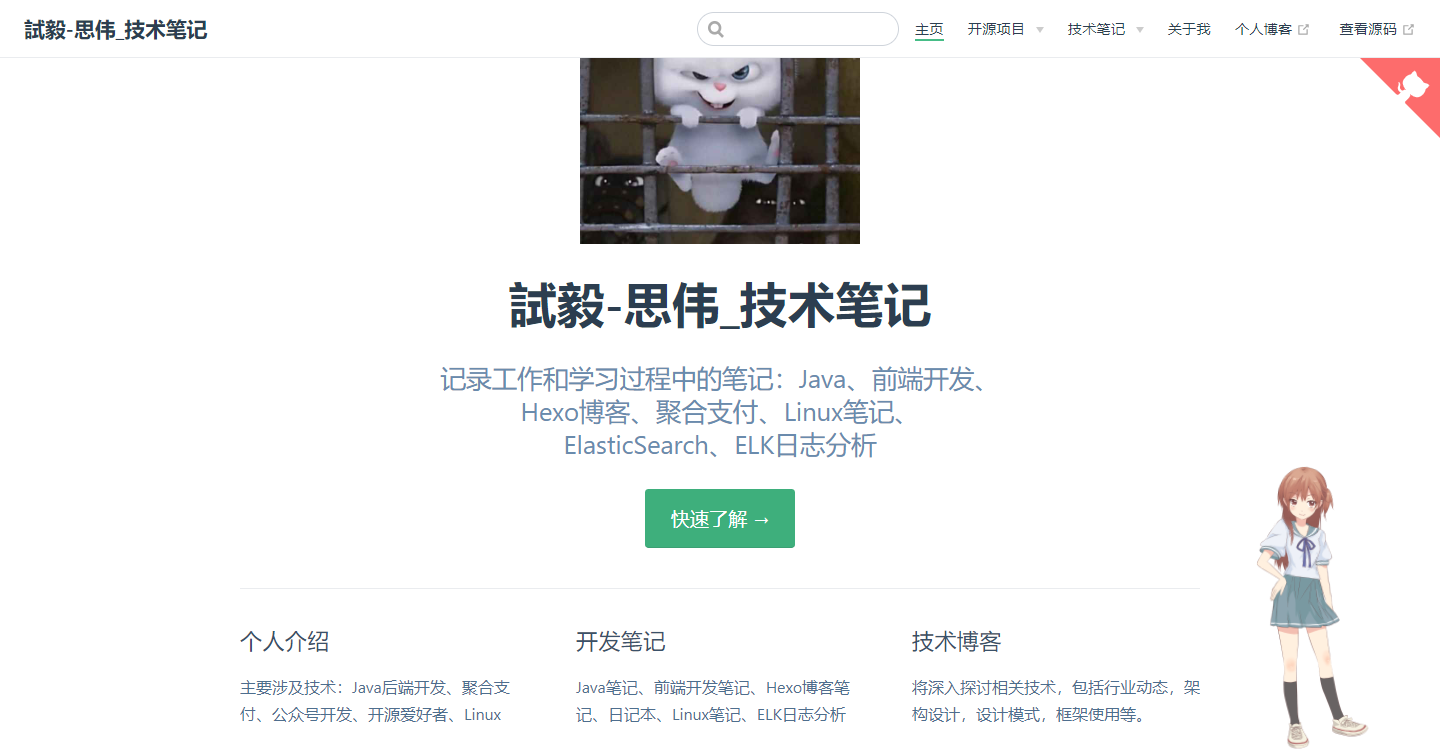
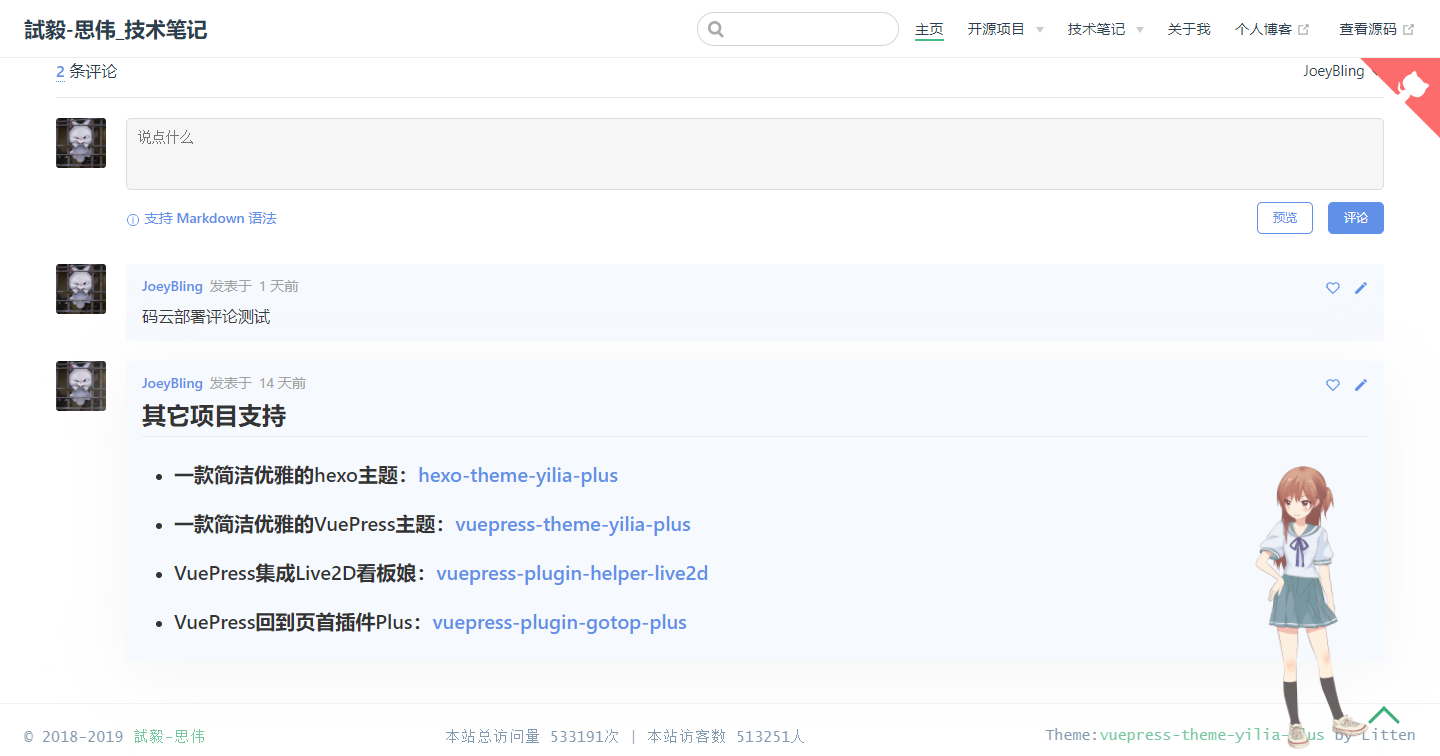
修改README、更新截图

diff --git a/dev/.vuepress/config.js b/dev/.vuepress/config.js
@@ -16,7 +16,7 @@ module.exports = {
           clientID: '071b084546d9f5bd6306',
           // GitHub Application Client Secret.
           clientSecret: 'a19c22f6b78dd87a731a192afca81cf63e57c5d5',
-          // GitHub repository.
+          // GitHub repository. 存储评论的 repo
           repo: 'ibooks',
           // GitHub repository 所有者，可以是个人或者组织。
           owner: 'JoeyBling',

diff --git a/README.md b/README.md
@@ -1,24 +1,23 @@
 # vuepress-plugin-mygitalk
 
 ```
-.___  ___. ____    ____  _______  __  .___________.    ___       __       __  ___ 
-|   \/   | \   \  /   / /  _____||  | |           |   /   \     |  |     |  |/  / 
-|  \  /  |  \   \/   / |  |  __  |  | `---|  |----`  /  ^  \    |  |     |  '  /  
-|  |\/|  |   \_    _/  |  | |_ | |  |     |  |      /  /_\  \   |  |     |    <   
-|  |  |  |     |  |    |  |__| | |  |     |  |     /  _____  \  |  `----.|  .  \  
-|__|  |__|     |__|     \______| |__|     |__|    /__/     \__\ |_______||__|\__\ 
-                                                                                  
+.___  ___. ____    ____  _______  __  .___________.    ___       __       __  ___
+|   \/   | \   \  /   / /  _____||  | |           |   /   \     |  |     |  |/  /
+|  \  /  |  \   \/   / |  |  __  |  | `---|  |----`  /  ^  \    |  |     |  '  /
+|  |\/|  |   \_    _/  |  | |_ | |  |     |  |      /  /_\  \   |  |     |    <
+|  |  |  |     |  |    |  |__| | |  |     |  |     /  _____  \  |  `----.|  .  \
+|__|  |__|     |__|     \______| |__|     |__|    /__/     \__\ |_______||__|\__\
 ```
 
-[![](https://nodei.co/npm/vuepress-plugin-gotop-plus.png?downloads=true&downloadRank=true&stars=true)](https://www.npmjs.com/package/vuepress-plugin-gotop-plus)
+[![](https://nodei.co/npm/vuepress-plugin-mygitalk.png?downloads=true&downloadRank=true&stars=true)](https://www.npmjs.com/package/vuepress-plugin-mygitalk)
 
-[![npm package](https://img.shields.io/npm/v/vuepress-plugin-gotop-plus.svg?label=vuepress-plugin-gotop-plus)](https://www.npmjs.com/package/vuepress-plugin-gotop-plus)
-[![downloads-total](https://img.shields.io/npm/dt/vuepress-plugin-gotop-plus.svg)](https://www.npmjs.com/package/vuepress-plugin-gotop-plus)
-[![downloads-month](https://img.shields.io/npm/dm/vuepress-plugin-gotop-plus.svg)](https://www.npmjs.com/package/vuepress-plugin-gotop-plus)
-![star](https://img.shields.io/github/stars/JoeyBling/vuepress-plugin-gotop-plus "star")
-![fork](https://img.shields.io/github/forks/JoeyBling/vuepress-plugin-gotop-plus "fork")
-![GitHub Last Commit](https://img.shields.io/github/last-commit/JoeyBling/vuepress-plugin-gotop-plus.svg?label=commits "GitHub Last Commit")
-![issues](https://img.shields.io/github/issues/JoeyBling/vuepress-plugin-gotop-plus "issues")
+[![npm package](https://img.shields.io/npm/v/vuepress-plugin-mygitalk.svg?label=vuepress-plugin-mygitalk)](https://www.npmjs.com/package/vuepress-plugin-mygitalk)
+[![downloads-total](https://img.shields.io/npm/dt/vuepress-plugin-mygitalk.svg)](https://www.npmjs.com/package/vuepress-plugin-mygitalk)
+[![downloads-month](https://img.shields.io/npm/dm/vuepress-plugin-mygitalk.svg)](https://www.npmjs.com/package/vuepress-plugin-mygitalk)
+![star](https://img.shields.io/github/stars/JoeyBling/vuepress-plugin-mygitalk "star")
+![fork](https://img.shields.io/github/forks/JoeyBling/vuepress-plugin-mygitalk "fork")
+![GitHub Last Commit](https://img.shields.io/github/last-commit/JoeyBling/vuepress-plugin-mygitalk.svg?label=commits "GitHub Last Commit")
+![issues](https://img.shields.io/github/issues/JoeyBling/vuepress-plugin-mygitalk "issues")
 [![Author](https://img.shields.io/badge/Author-JoeyBling-red.svg "Author")](https://zhousiwei.gitee.io "Author")
 [![VuePress Version](https://img.shields.io/badge/VuePress-%3E%3D%201.0.0-blue.svg)](https://v1.vuepress.vuejs.org/zh/)
 [![vuepress-theme-yilia-plus](https://img.shields.io/badge/Theme-Yilia_Plus-red.svg "vuepress-theme-yilia-plus")](https://github.com/JoeyBling/vuepress-theme-yilia-plus)
@@ -26,15 +25,15 @@
 
 ------------------
 
-> **欢迎使用和Star支持，如使用过程中碰到问题，可以提出Issue，我会尽力完善**
+> **欢迎使用和Star支持，如使用过程中碰到问题，可以提出[Issue](https://github.com/JoeyBling/vuepress-plugin-mygitalk/issues)，我会尽力完善**
 
 ## 介绍
-&#160;&#160;&#160;&#160;**VuePress回到页首插件Plus. back-to-top plus plugin for VuePress.**
-
-> 此插件根据官方插件[@vuepress/plugin-back-to-top](https://v1.vuepress.vuejs.org/zh/plugin/official/plugin-back-to-top.html)更改调整，加入了一些自定义参数配置.
+&#160;&#160;&#160;&#160;**VuePress集成[Gitalk](https://github.com/gitalk/gitalk). | [Gitalk](https://github.com/gitalk/gitalk) plugin for VuePress.**
 
 - 功能还很少，欢迎各位给我提意见和建议~
-- [vuepress-plugin-gotop-plus](https://github.com/JoeyBling/vuepress-plugin-gotop-plus) 是为 [VuePress](https://v1.vuepress.vuejs.org/zh/) `1.0.0+`制作的插件。
+- [vuepress-plugin-mygitalk](https://github.com/JoeyBling/vuepress-plugin-mygitalk) 是为 [VuePress](https://v1.vuepress.vuejs.org/zh/) `1.0.0+`制作的插件。
+- [Gitalk文档](https://github.com/gitalk/gitalk/blob/master/readme-cn.md#%E8%AE%BE%E7%BD%AE)
+- 关于申请并配置第三方应用请查看 ➡ [https://www.jianshu.com/p/ac7658cc912f](https://www.jianshu.com/p/ac7658cc912f)
 
 ## 线上预览
 
@@ -50,9 +49,9 @@
 ## 安装
 
 ```bash
-yarn add vuepress-plugin-gotop-plus
+yarn add vuepress-plugin-mygitalk
 # or
-npm install vuepress-plugin-gotop-plus --save
+npm install vuepress-plugin-mygitalk --save
 ```
 
 ------------
@@ -61,17 +60,15 @@ npm install vuepress-plugin-gotop-plus --save
 
 ### 引入该插件
 
-在配置文件中引入 `vuepress-plugin-gotop-plus`
+在配置文件中引入 `vuepress-plugin-mygitalk`
 
 > 查看 [官方文档](https://v1.vuepress.vuejs.org/zh/plugin/using-a-plugin.html)。
 
 ```javascript
 module.exports = {
   plugins: [
-    /* 两个插件只能选一个 */
-    ['@vuepress/plugin-back-to-top', false],
     [
-      'vuepress-plugin-gotop-plus'
+      'vuepress-plugin-mygitalk'
     ],
   ],
 }
@@ -82,14 +79,25 @@ module.exports = {
 ```javascript
 module.exports = {
   plugins: [
-    /* 两个插件只能选一个 */
-    ['@vuepress/plugin-back-to-top', false],
     [
-      'vuepress-plugin-gotop-plus', {
-        // 是否在移动设备上显示(default: true)
-        mobileShow: false,
-        // 回到页首元素显示触发的高度阈值(default: 50)
-        threshold: 50
+      'vuepress-plugin-mygitalk', {
+        // 是否启用(关闭请设置为false)(default: true)
+        enable: true,
+        // 是否开启首页评论(default: true)
+        home: true,
+        // Gitalk配置
+        gitalk: {
+          // GitHub Application Client ID.
+          clientID: '',
+          // GitHub Application Client Secret.
+          clientSecret: '',
+          // GitHub repository. 存储评论的 repo
+          repo: 'ibooks',
+          // GitHub repository 所有者，可以是个人或者组织。
+          owner: 'JoeyBling',
+          // 设置语言(default: zh-CN)
+          language: 'zh-CN',
+        }
       }
     ],
   ],
@@ -101,6 +109,8 @@ module.exports = {
 - ### 一款简洁优雅的hexo主题：[hexo-theme-yilia-plus](https://github.com/JoeyBling/hexo-theme-yilia-plus)
 - ### 一款简洁优雅的VuePress主题：[vuepress-theme-yilia-plus](https://github.com/JoeyBling/vuepress-theme-yilia-plus)
 - ### VuePress集成Live2D看板娘：[vuepress-plugin-helper-live2d](https://github.com/JoeyBling/vuepress-plugin-helper-live2d)
+- ### VuePress集成Gitalk：[vuepress-plugin-mygitalk](https://github.com/JoeyBling/vuepress-plugin-mygitalk)
+- ### VuePress回到页首插件Plus：[vuepress-plugin-gotop-plus](https://github.com/JoeyBling/vuepress-plugin-gotop-plus)
 
 ## 捐赠
 &#160;&#160;&#160;&#160;**如果感觉对您有帮助，请作者喝杯咖啡吧，请注明您的名字或者昵称，方便作者感谢o(*￣︶￣*)o**
@@ -122,4 +132,4 @@ module.exports = {
 
 ## LICENSE
 
-[![LICENSE](https://img.shields.io/github/license/JoeyBling/vuepress-plugin-gotop-plus "LICENSE")](./LICENSE "LICENSE")
+[![LICENSE](https://img.shields.io/github/license/JoeyBling/vuepress-plugin-mygitalk "LICENSE")](./LICENSE "LICENSE")

diff --git a/dev/README.md b/dev/README.md
@@ -1,23 +1,23 @@
-# vuepress-plugin-gotop-plus
+# vuepress-plugin-mygitalk
 
 ```
-               _                                _
-  __ _   ___  | |_   ___   _ __          _ __  | | _   _  ___
- / _` | / _ \ | __| / _ \ | '_ \  _____ | '_ \ | || | | |/ __|
-| (_| || (_) || |_ | (_) || |_) ||_____|| |_) || || |_| |\__ \
- \__, | \___/  \__| \___/ | .__/        | .__/ |_| \__,_||___/
- |___/                    |_|           |_|
+.___  ___. ____    ____  _______  __  .___________.    ___       __       __  ___
+|   \/   | \   \  /   / /  _____||  | |           |   /   \     |  |     |  |/  /
+|  \  /  |  \   \/   / |  |  __  |  | `---|  |----`  /  ^  \    |  |     |  '  /
+|  |\/|  |   \_    _/  |  | |_ | |  |     |  |      /  /_\  \   |  |     |    <
+|  |  |  |     |  |    |  |__| | |  |     |  |     /  _____  \  |  `----.|  .  \
+|__|  |__|     |__|     \______| |__|     |__|    /__/     \__\ |_______||__|\__\
 ```
 
-[![](https://nodei.co/npm/vuepress-plugin-gotop-plus.png?downloads=true&downloadRank=true&stars=true)](https://www.npmjs.com/package/vuepress-plugin-gotop-plus)
+[![](https://nodei.co/npm/vuepress-plugin-mygitalk.png?downloads=true&downloadRank=true&stars=true)](https://www.npmjs.com/package/vuepress-plugin-mygitalk)
 
-[![npm package](https://img.shields.io/npm/v/vuepress-plugin-gotop-plus.svg?label=vuepress-plugin-gotop-plus)](https://www.npmjs.com/package/vuepress-plugin-gotop-plus)
-[![downloads-total](https://img.shields.io/npm/dt/vuepress-plugin-gotop-plus.svg)](https://www.npmjs.com/package/vuepress-plugin-gotop-plus)
-[![downloads-month](https://img.shields.io/npm/dm/vuepress-plugin-gotop-plus.svg)](https://www.npmjs.com/package/vuepress-plugin-gotop-plus)
-![star](https://img.shields.io/github/stars/JoeyBling/vuepress-plugin-gotop-plus "star")
-![fork](https://img.shields.io/github/forks/JoeyBling/vuepress-plugin-gotop-plus "fork")
-![GitHub Last Commit](https://img.shields.io/github/last-commit/JoeyBling/vuepress-plugin-gotop-plus.svg?label=commits "GitHub Last Commit")
-![issues](https://img.shields.io/github/issues/JoeyBling/vuepress-plugin-gotop-plus "issues")
+[![npm package](https://img.shields.io/npm/v/vuepress-plugin-mygitalk.svg?label=vuepress-plugin-mygitalk)](https://www.npmjs.com/package/vuepress-plugin-mygitalk)
+[![downloads-total](https://img.shields.io/npm/dt/vuepress-plugin-mygitalk.svg)](https://www.npmjs.com/package/vuepress-plugin-mygitalk)
+[![downloads-month](https://img.shields.io/npm/dm/vuepress-plugin-mygitalk.svg)](https://www.npmjs.com/package/vuepress-plugin-mygitalk)
+![star](https://img.shields.io/github/stars/JoeyBling/vuepress-plugin-mygitalk "star")
+![fork](https://img.shields.io/github/forks/JoeyBling/vuepress-plugin-mygitalk "fork")
+![GitHub Last Commit](https://img.shields.io/github/last-commit/JoeyBling/vuepress-plugin-mygitalk.svg?label=commits "GitHub Last Commit")
+![issues](https://img.shields.io/github/issues/JoeyBling/vuepress-plugin-mygitalk "issues")
 [![Author](https://img.shields.io/badge/Author-JoeyBling-red.svg "Author")](https://zhousiwei.gitee.io "Author")
 [![VuePress Version](https://img.shields.io/badge/VuePress-%3E%3D%201.0.0-blue.svg)](https://v1.vuepress.vuejs.org/zh/)
 [![vuepress-theme-yilia-plus](https://img.shields.io/badge/Theme-Yilia_Plus-red.svg "vuepress-theme-yilia-plus")](https://github.com/JoeyBling/vuepress-theme-yilia-plus)
@@ -25,15 +25,15 @@
 
 ------------------
 
-> **欢迎使用和Star支持，如使用过程中碰到问题，可以提出Issue，我会尽力完善**
+> **欢迎使用和Star支持，如使用过程中碰到问题，可以提出[Issue](https://github.com/JoeyBling/vuepress-plugin-mygitalk/issues)，我会尽力完善**
 
 ## 介绍
-&#160;&#160;&#160;&#160;**VuePress回到页首插件Plus. back-to-top plus plugin for VuePress.**
-
-> 此插件根据官方插件[@vuepress/plugin-back-to-top](https://v1.vuepress.vuejs.org/zh/plugin/official/plugin-back-to-top.html)更改调整，加入了一些自定义参数配置.
+&#160;&#160;&#160;&#160;**VuePress集成[Gitalk](https://github.com/gitalk/gitalk). | [Gitalk](https://github.com/gitalk/gitalk) plugin for VuePress.**
 
 - 功能还很少，欢迎各位给我提意见和建议~
-- [vuepress-plugin-gotop-plus](https://github.com/JoeyBling/vuepress-plugin-gotop-plus) 是为 [VuePress](https://v1.vuepress.vuejs.org/zh/) `1.0.0+`制作的插件。
+- [vuepress-plugin-mygitalk](https://github.com/JoeyBling/vuepress-plugin-mygitalk) 是为 [VuePress](https://v1.vuepress.vuejs.org/zh/) `1.0.0+`制作的插件。
+- [Gitalk文档](https://github.com/gitalk/gitalk/blob/master/readme-cn.md#%E8%AE%BE%E7%BD%AE)
+- 关于申请并配置第三方应用请查看 ➡ [https://www.jianshu.com/p/ac7658cc912f](https://www.jianshu.com/p/ac7658cc912f)
 
 ## 线上预览
 
@@ -49,9 +49,9 @@
 ## 安装
 
 ```bash
-yarn add vuepress-plugin-gotop-plus
+yarn add vuepress-plugin-mygitalk
 # or
-npm install vuepress-plugin-gotop-plus --save
+npm install vuepress-plugin-mygitalk --save
 ```
 
 ------------
@@ -60,17 +60,15 @@ npm install vuepress-plugin-gotop-plus --save
 
 ### 引入该插件
 
-在配置文件中引入 `vuepress-plugin-gotop-plus`
+在配置文件中引入 `vuepress-plugin-mygitalk`
 
 > 查看 [官方文档](https://v1.vuepress.vuejs.org/zh/plugin/using-a-plugin.html)。
 
 ```javascript
 module.exports = {
   plugins: [
-    /* 两个插件只能选一个 */
-    ['@vuepress/plugin-back-to-top', false],
     [
-      'vuepress-plugin-gotop-plus'
+      'vuepress-plugin-mygitalk'
     ],
   ],
 }
@@ -81,14 +79,25 @@ module.exports = {
 ```javascript
 module.exports = {
   plugins: [
-    /* 两个插件只能选一个 */
-    ['@vuepress/plugin-back-to-top', false],
     [
-      'vuepress-plugin-gotop-plus', {
-        // 是否在移动设备上显示(default: true)
-        mobileShow: false,
-        // 回到页首元素显示触发的高度阈值(default: 50)
-        threshold: 50
+      'vuepress-plugin-mygitalk', {
+        // 是否启用(关闭请设置为false)(default: true)
+        enable: true,
+        // 是否开启首页评论(default: true)
+        home: true,
+        // Gitalk配置
+        gitalk: {
+          // GitHub Application Client ID.
+          clientID: '',
+          // GitHub Application Client Secret.
+          clientSecret: '',
+          // GitHub repository. 存储评论的 repo
+          repo: 'ibooks',
+          // GitHub repository 所有者，可以是个人或者组织。
+          owner: 'JoeyBling',
+          // 设置语言(default: zh-CN)
+          language: 'zh-CN',
+        }
       }
     ],
   ],
@@ -100,6 +109,8 @@ module.exports = {
 - ### 一款简洁优雅的hexo主题：[hexo-theme-yilia-plus](https://github.com/JoeyBling/hexo-theme-yilia-plus)
 - ### 一款简洁优雅的VuePress主题：[vuepress-theme-yilia-plus](https://github.com/JoeyBling/vuepress-theme-yilia-plus)
 - ### VuePress集成Live2D看板娘：[vuepress-plugin-helper-live2d](https://github.com/JoeyBling/vuepress-plugin-helper-live2d)
+- ### VuePress集成Gitalk：[vuepress-plugin-mygitalk](https://github.com/JoeyBling/vuepress-plugin-mygitalk)
+- ### VuePress回到页首插件Plus：[vuepress-plugin-gotop-plus](https://github.com/JoeyBling/vuepress-plugin-gotop-plus)
 
 ## 捐赠
 &#160;&#160;&#160;&#160;**如果感觉对您有帮助，请作者喝杯咖啡吧，请注明您的名字或者昵称，方便作者感谢o(*￣︶￣*)o**
@@ -121,4 +132,4 @@ module.exports = {
 
 ## LICENSE
 
-[![LICENSE](https://img.shields.io/github/license/JoeyBling/vuepress-plugin-gotop-plus "LICENSE")](./LICENSE "LICENSE")
+[![LICENSE](https://img.shields.io/github/license/JoeyBling/vuepress-plugin-mygitalk "LICENSE")](./LICENSE "LICENSE")
